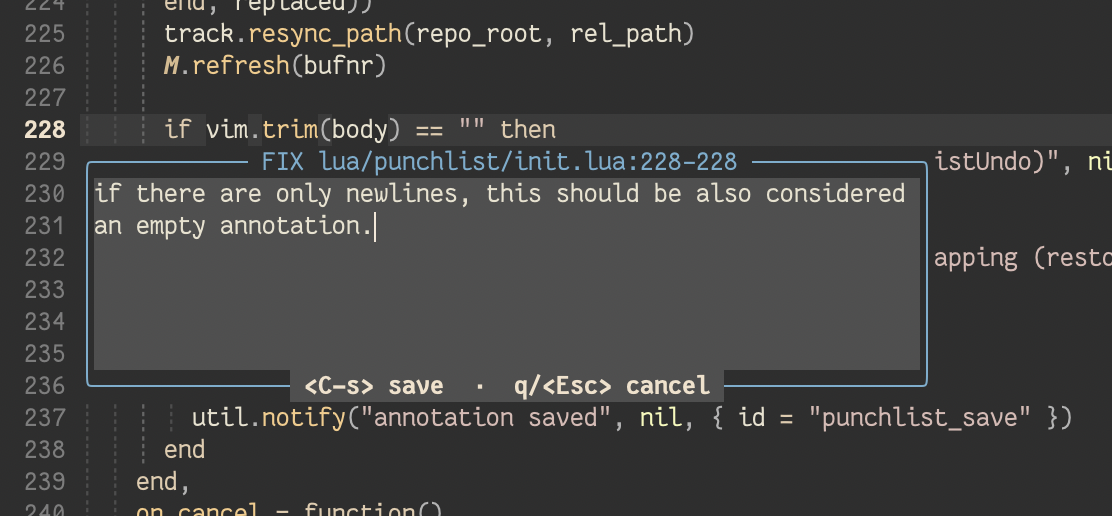
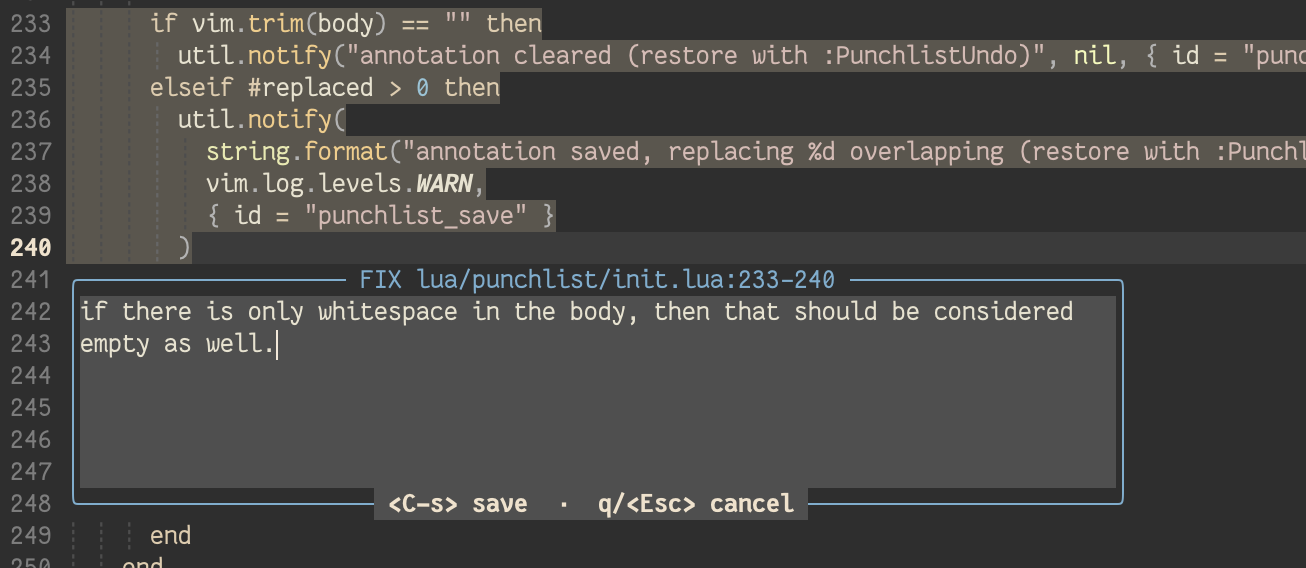
update multi-line image

diff --git a/README.md b/README.md
@@ -43,7 +43,7 @@ After editing, it shows up as virtual text:
 <img src="images/added-discuss.png" width=600>
 
 
-Can use multi-line entry for longer annotations:
+Can use multi-line entry for longer annotations, and annotations can be attached to multiple lines:
 
 <img src="images/multiline-fix.png" width=400>
 
